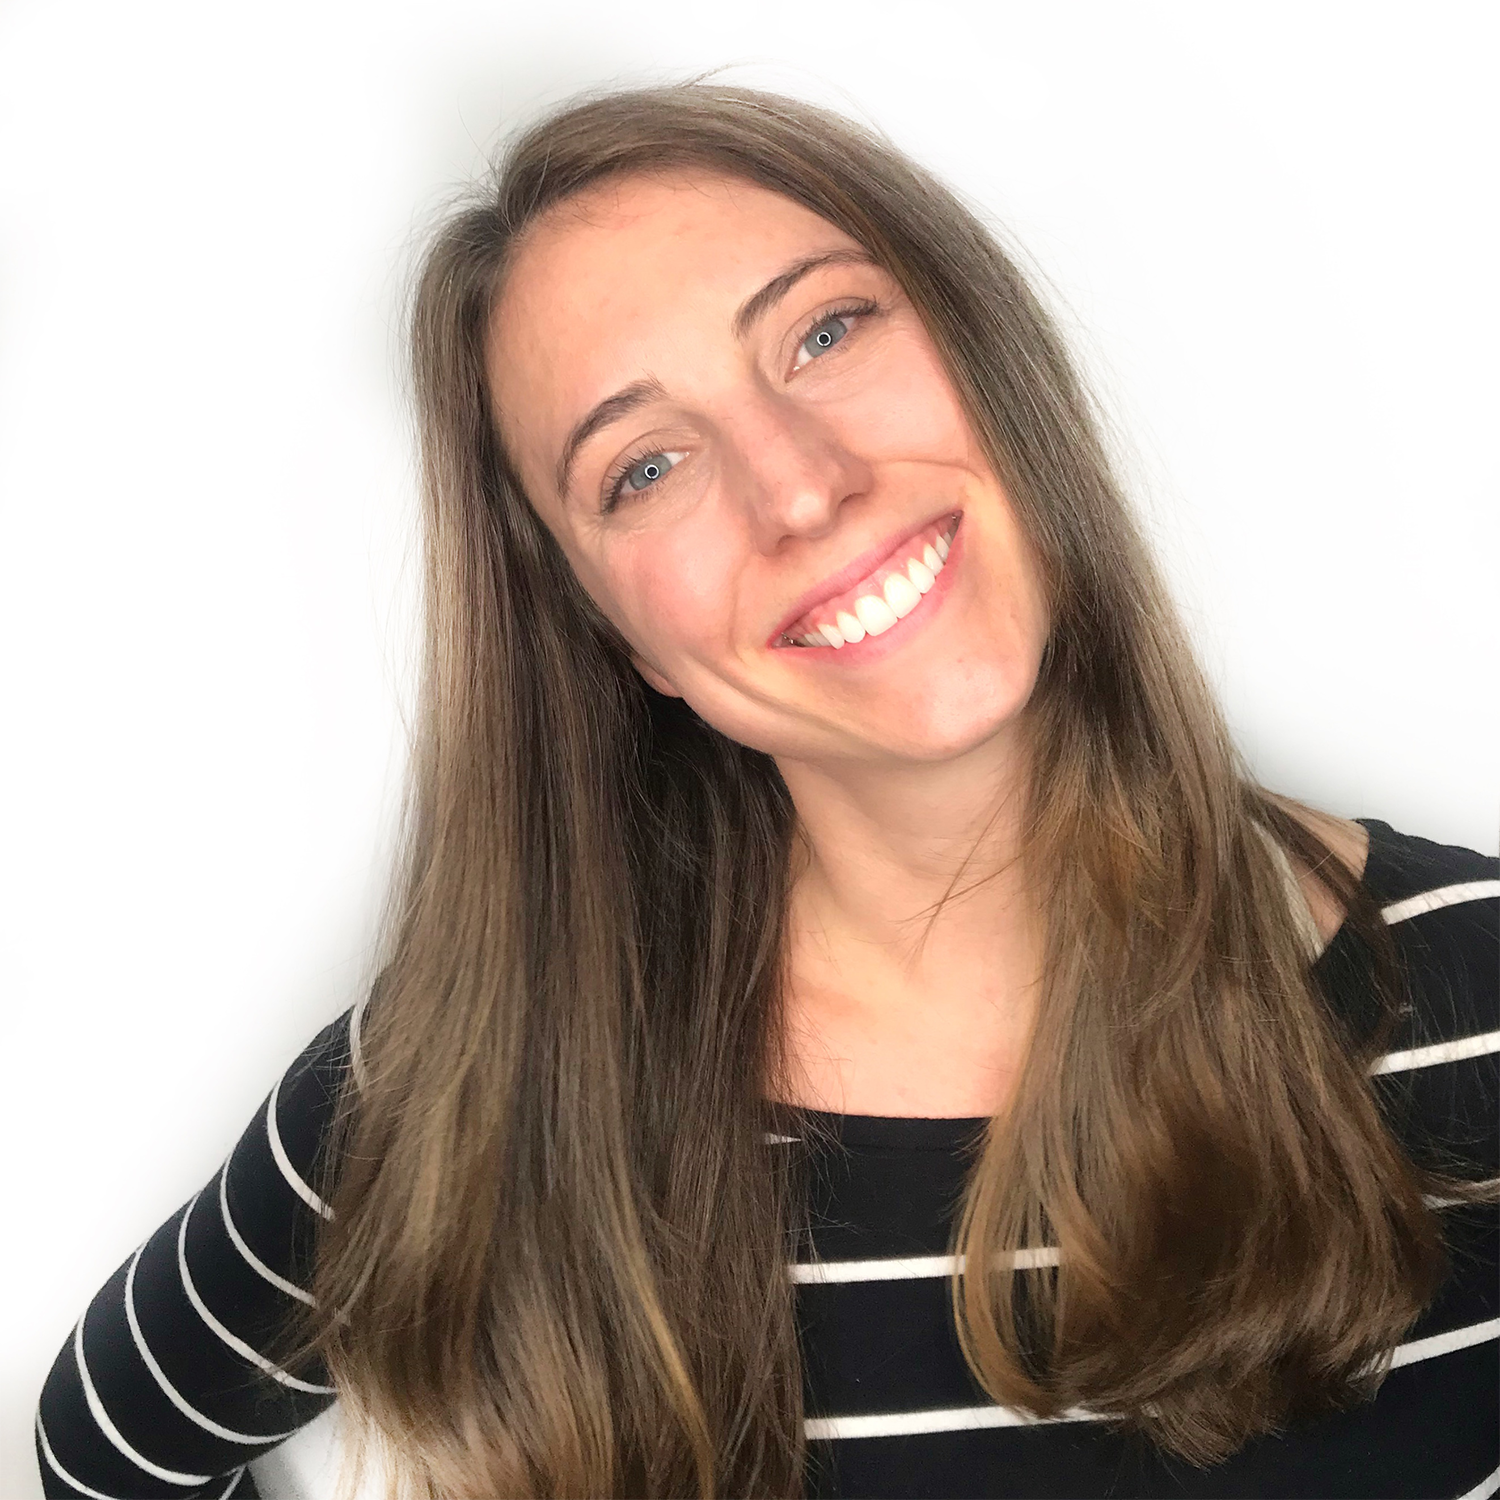
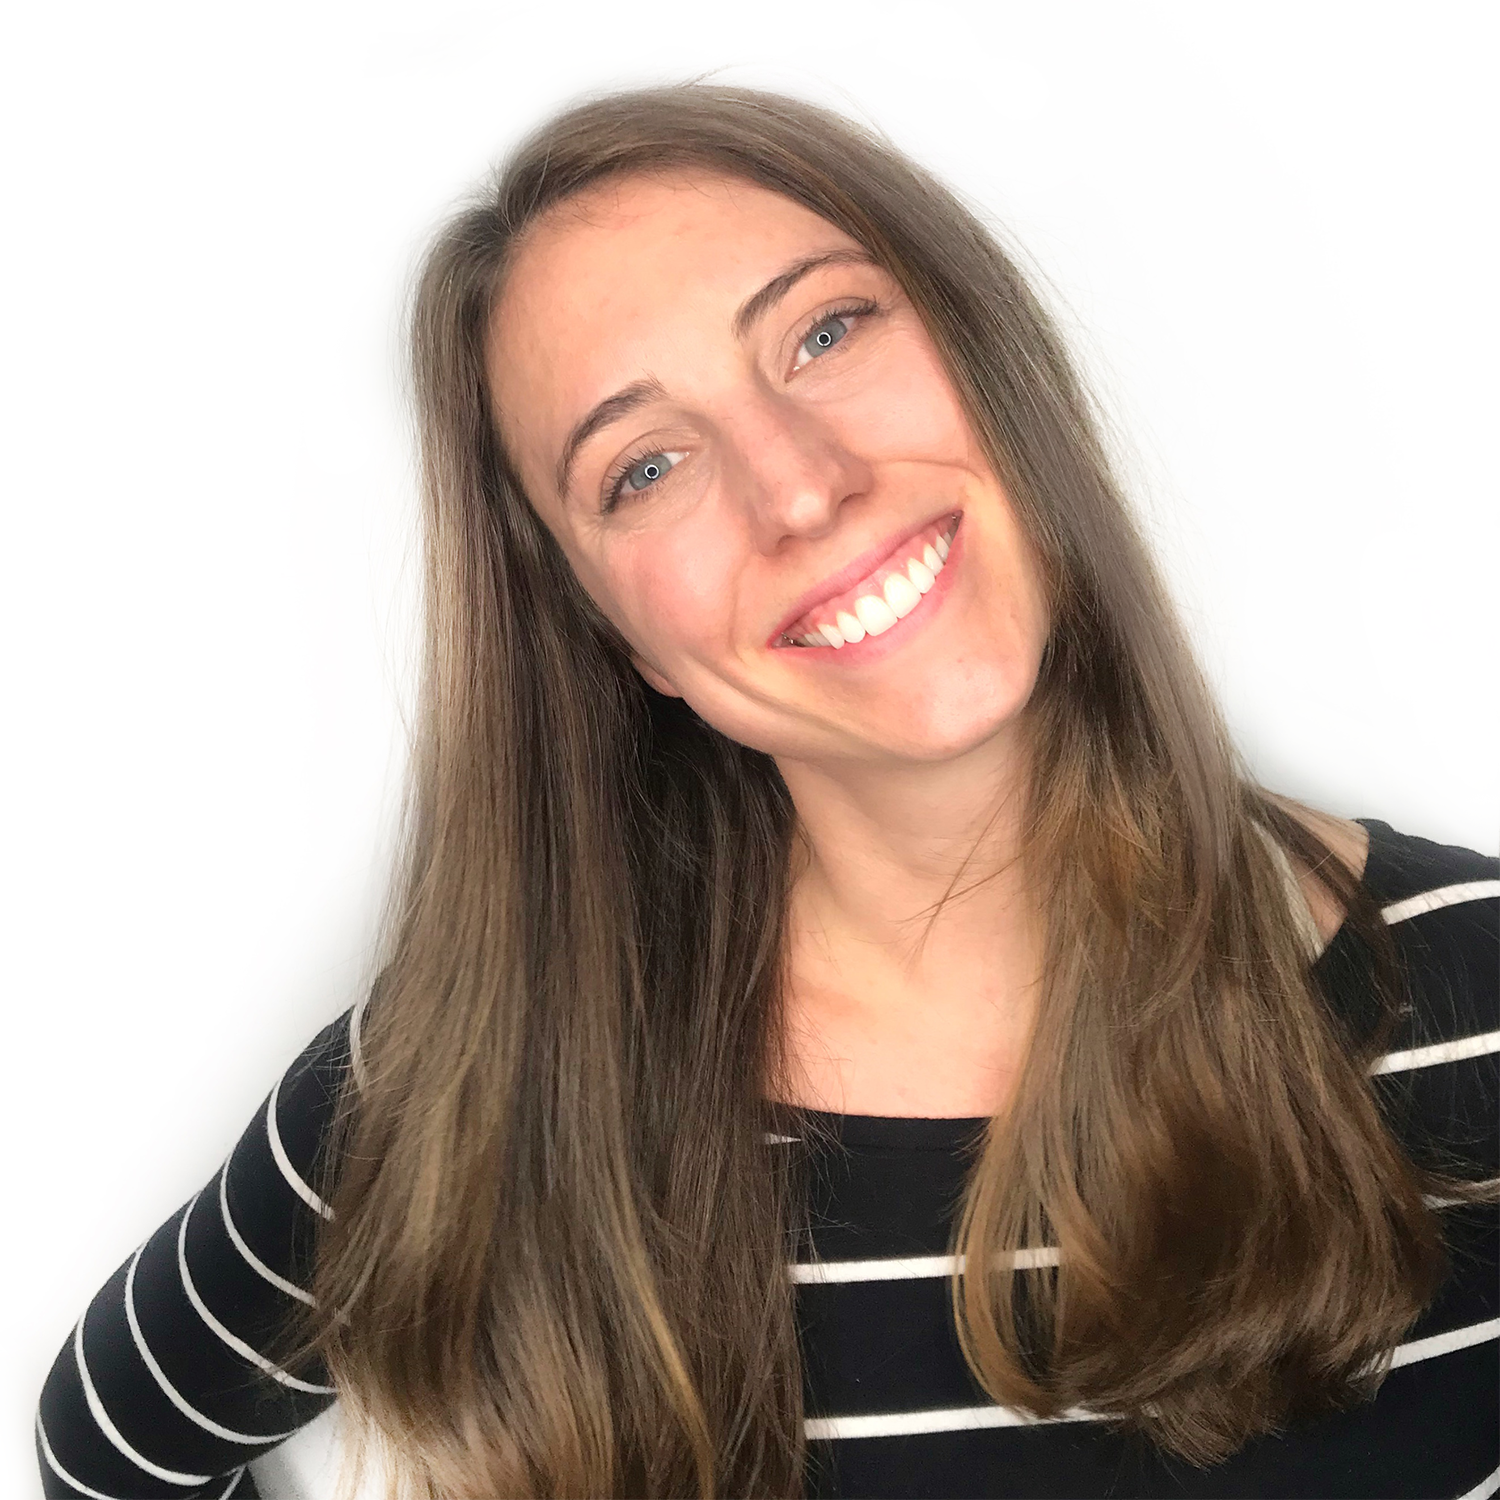
grid added to about page, landing page updates

Changed region(s): [[0.276, 0.0307, 0.3987, 0.184], [0.0, 0.92, 0.0613, 1.0], [0.9813, 0.552, 1.0, 0.5827]]

diff --git a/about.html b/about.html
@@ -52,33 +52,34 @@
 
 <!--- Story --------------->
 <body>
+    <section class="statement">
     <h2>Psychology</h2>
-    <h6 class="statement">My degree in psychology is something that I apply every single day. It helps me understand someone’s motivations and goals and how I can collaborate with them (or market something to them, best learn from them, or resolve conflicts—it’s endless!).</h6>
+    <h6>My degree in psychology is something that I apply every single day. It helps me understand someone’s motivations and goals and how I can collaborate with them (or market something to them, best learn from them, or resolve conflicts—it’s endless!).</h6>
 
-    <p class="statement">“Stop psychoanalyzing me!” my best friend use to accuse me of. It was an inside joke between us since I had an intuition of what was going through her head and loved observing human behavior. My innate understanding of psychology drives my interest in people and has played a meaningful role in my choice to become a UX Designer.</p>
+    <p>“Stop psychoanalyzing me!” my best friend use to accuse me of. It was an inside joke between us since I had an intuition of what was going through her head and loved observing human behavior. My innate understanding of psychology drives my interest in people and has played a meaningful role in my choice to become a UX Designer.</p>
 
-    <h2 class="statement">Non-profit & AmeriCorps</h2>
-    <h6 class="statement">Nothing has prepared me more to approach my work with empathy, curiosity, and a problem-solving mindset than working in the non-profit sector.</h6>
+    <h2>Non-profit & AmeriCorps</h2>
+    <h6>Nothing has prepared me more to approach my work with empathy, curiosity, and a problem-solving mindset than working in the non-profit sector.</h6>
 
-    <p class="statement">Committing to mission-driven work requires you to approach your job with an understanding that, due to institutional systems and individual experiences, you will never be able to fully step in someone else's shoes. But that doesn’t mean you can’t wear a similar pair! It necessitates continuous learning: I’ve done everything from a complete rebrand, website rebuild, RFPs, designing marketing materials, photography, video editing, copywriting, to cleaning goose poop off rowing docks. </p>
+    <p>Committing to mission-driven work requires you to approach your job with an understanding that, due to institutional systems and individual experiences, you will never be able to fully step in someone else's shoes. But that doesn’t mean you can’t wear a similar pair! It necessitates continuous learning: I’ve done everything from a complete rebrand, website rebuild, RFPs, designing marketing materials, photography, video editing, copywriting, to cleaning goose poop off rowing docks. </p>
 
-    <h2 class="statement">Marketing & Branding</h2>
-    <h6 class="statement">As a marketer, I want to know the business goals, the audience, the desired results, (and budget!) before putting any campaign together. The same mindset is needed within UX Design—innovation requires constraints and direction. </h6>
-    <p class="statement">I love marketing and branding because its a creative place to tie together psychology and strategy. Behind every design decision I make, my experience in marketing bids me to ask: will this speak to our audience? Will it sell the product? Does the branding appeal to the user? How might this creative be improved?</p>
+    <h2>Marketing & Branding</h2>
+    <h6>As a marketer, I want to know the business goals, the audience, the desired results, (and budget!) before putting any campaign together. The same mindset is needed within UX Design—innovation requires constraints and direction. </h6>
+    <p>I love marketing and branding because its a creative place to tie together psychology and strategy. Behind every design decision I make, my experience in marketing bids me to ask: will this speak to our audience? Will it sell the product? Does the branding appeal to the user? How might this creative be improved?</p>
 
-    <h2 class="statement">Soul searching & my friend Matti</h2>
-    <h6 class="statement">So how did I actually arrive at UX Design? A ton of soul searching, meditation, research, and talking to everyone and their mother. </h6>
-    <p class="statement">One fateful night at a Brooklyn house party, I met my friend Matti—a UX’er. As she described her day time job to me, I was overcome with the feeling you get when you know something is exactly right. Before I had finished my glass of wine, I knew my soul search was over. </p>
+    <h2>Soul searching & my friend Matti</h2>
+    <h6>So how did I actually arrive at UX Design? A ton of soul searching, meditation, research, and talking to everyone and their mother. </h6>
+    <p>One fateful night at a Brooklyn house party, I met my friend Matti—a UX’er. As she described her day time job to me, I was overcome with the feeling you get when you know something is exactly right. Before I had finished my glass of wine, I knew my soul search was over. </p>
 
-    <h2 class="statement">Today</h2>
-    <h6 class="statement">I get to spend my days happily using my multi-disciplinary skills and interests to craft enjoyable and accessible designs. </h6>
-    <p class="statement">Sound like we would work well together? I’d love to hear from you!</p>
+    <h2>Today</h2>
+    <h6>I get to spend my days happily using my multi-disciplinary skills and interests to craft enjoyable and accessible designs. </h6>
+    <p>Sound like we would work well together? I’d love to hear from you!</p>
+    </section>
 
-    <div class="contact-btn">
-    <a class="btn-outline" href="#email">Let's Connect</a>
-    <a class="btn-outline" href="">Download Resume</a>
+    <div class="btn">
+        <a href="#email" class="btn-outline btn1">Let's Connect</a>
+        <a href="" class="btn-outline btn2">Download Resume</a>
     </div>
-
 
     <h2>My work ethos</h2>
     <div class="work-ethos">

diff --git a/index.html b/index.html
@@ -96,7 +96,7 @@
     <div class="cs-grid cs-ruby">
         <div class="case-study-l">
             <h2>A Girl Named Ruby</h2>
-            <p>Across all of my professional experiences, UX design has been in everything - in designing promotional materials and content, in problem solving with people with complex issues through AmeriCorps, to understanding consumers through market research in my current role as a marketing manager.</p>
+            <p>Across all of my professional experiences, UX design has been in everything––in designing promotional materials and content, in problem solving with people through AmeriCorps, to understanding consumers through market research as a marketing manager.</p>
             <div class="btn">
                 <a class="btn-outline" href="about.html">Why I became a designer</a>
             </div>
@@ -113,18 +113,13 @@
     <section class="footer1">
         <div class="contact">
             <h2 class="orange-l">Onwards & Upwards</h2>
-            <p class="orange-l">Let’s make something awesome together <br>(coffee optional but improves experience)</p>
+            <p class="orange-l">Let’s make something awesome together (coffee optional but improves experience)</p>
         <div>
             <h5 class="orange-l">Get in touch</h5>
         </div>
         <div class="email">
             <a class="white" href="mailto:ruby@lyondesign.io">ruby@lyondesign.io</a>
         </div>
-            <div class="contact-icons white">
-                <a class="icon ion-logo-twitter" href="https://twitter.com/rubyanalyon" target="_blank"></a>
-                <a class="icon ion-logo-linkedin" href="https://www.linkedin.com/in/rubyana-lyon/" target="_blank"></a>
-                <a class="icon ion-logo-github" href="https://github.com/rubyana88" target="_blank"></a>
-            </div>
             <div class="return-top">
                 <a class="icon ion-md-arrow-up" href="#top"></a>
                 <a class="blue-l" href="#top">Back to top</a>
@@ -132,6 +127,13 @@
         </div>
     </section>
     <div class="footer2">
+        <div>
         <p class="orange-l">© 2019 | designed and developed by Ruby Lyon</p>
+        </div>
+        <div class="contact-icons">
+            <a class="icon ion-logo-twitter" href="https://twitter.com/rubyanalyon" target="_blank"></a>
+            <a class="icon ion-logo-linkedin" href="https://www.linkedin.com/in/rubyana-lyon/" target="_blank"></a>
+            <a class="icon ion-logo-github" href="https://github.com/rubyana88" target="_blank"></a>
+        </div>
     </div>
 </footer>

diff --git a/css/about.css b/css/about.css
@@ -28,12 +28,11 @@ h6{
 
 .statement{
     margin: auto;
-    width: 50%;
-    max-width: 60rem;
+    max-width: 80rem;
+    padding: 1rem 6rem;
 }
 
 .home-hero{
-    background-image: url('../images/dots.png');
     background-repeat: no-repeat;
     background-size: contain;
     background-position: center;
@@ -41,17 +40,13 @@ h6{
 }
 
 .about-picture{
-    max-width: 70rem;
     margin: auto;
-    width: 50%;
 }
 
 .landing-text h1{
-        max-width: 550px;
-        margin: 60px 0 0 0;
+        max-width: 55rem;
         margin: auto;
-        width: 50%;
-        padding-top: 6rem;
+        padding-top: 4rem;
         padding-bottom: 10rem;
 }
 
@@ -59,40 +54,26 @@ h6{
 
 body h2{
     text-align: center;
+    padding-bottom: 0rem;
+    padding-top: 0rem;
 }
 
 body h6{
-    padding-bottom: 2rem;
-    padding-top: 1rem;
+    margin-top: 1rem;
+    margin-bottom: 1rem;
 }
 
 body p{
     font-size: 1.6rem;
-    padding-bottom: 7rem;
+    padding-top: 0rem;
+    padding-bottom: 5rem;
 }
 
-.contact-btn{
-    display: grid;
-    grid-template-columns: 1fr 1fr;
-    grid-gap: 5rem;
+.btn{
+    display: block;
+    padding: 1rem 2rem;
+    text-align: center;
 }
-
-.btn-outline{
-  border: 3px solid var(--blue);
-  border-radius: 40px;
-  padding: 1rem;
-  font-size: 1.4rem;
-  color: var(--dark-blue);
-  text-transform: uppercase;
-  font-weight: bold;
-  letter-spacing: 3.55556px;
-  text-align: center;
-  display: block;
-  margin-left: auto;
-  margin-right: auto;
-  width: 45%;
-}
-
 
 
 /*<-------------------- work ethos ----------------------->*/
@@ -101,7 +82,7 @@ display: grid;
 grid-template-columns: 1fr 1fr;
 margin: auto;
 max-width: 50rem;
-grid-gap: 5rem;
+grid-gap: 4rem;
 }
 
 .work-ethos p{
@@ -112,6 +93,8 @@ grid-gap: 5rem;
     height: 23rem;
     font-size: 2.4rem;
     line-height: 4rem;
+    margin: 0rem;
+    padding-bottom: 6rem;
 }
 
 .quote-d{
@@ -127,3 +110,31 @@ grid-gap: 5rem;
     font-weight: 700;
     border: 3px solid var(--light-orange);
 }
+
+
+.btn{
+    display: grid;
+    grid-template-columns: 1fr 2fr 2fr 1fr;
+    grid-gap: 4rem;
+    padding: 0rem 3rem;
+}
+
+.btn1{
+    grid-column: 2/3;
+}
+.btn2{
+    grid-column: 3/4;
+}
+
+.btn-outline{
+    border: 3px solid var(--blue);
+    border-radius: 40px;
+    text-decoration: none;
+    font-size: 1.6rem;
+    text-transform: uppercase;
+    font-weight: bold;
+    letter-spacing: 3.55556px;
+    color: var(--dark-blue);
+    text-align: center;
+    padding: 1rem;
+    }

diff --git a/css/main.css b/css/main.css
@@ -59,10 +59,8 @@ h5{
 font-family: Poppins;
 font-style: normal;
 font-weight: 300;
-line-height: 24px;
-font-size: 18px;
+font-size: 1.8rem;
 text-transform: uppercase;
-font-weight: bold;
 letter-spacing: 3.55556px;
 }
 
@@ -133,8 +131,7 @@ footer{
 .footer1 p{
     line-height: 3.1rem;
     font-size: 2.2rem;
-    padding-bottom: 5rem;
-    padding-top: 2rem;
+    padding-bottom: 2rem;
     background: linear-gradient(to right,#F7BA8F,#CC7C92);
     -webkit-background-clip: text;
     -webkit-text-fill-color: transparent;
@@ -161,25 +158,56 @@ footer{
 }
 
 .return-top{
-    padding-top: 10rem;
+    padding-top: 6rem;
     padding-bottom: 10rem;
-    color: var(--blue);
     font-size: 1.8rem;
     display: grid;
     grid-column: 1 fr;
 }
 
+.return-top a{
+    color: var(--blue);
+    font-weight: bold;
+    font-size: 2rem;
+}
+
 .icon.ion-md-arrow-up{
     font-size: 3rem;
     padding: 1rem;
+    color: var(--blue);
+    font-weight: bold;
 }
 
 .footer2 {
-    display: flex;
-    justify-content: space-between;
-    padding: 2rem;
+    display: grid;
+    grid-template-columns: 1fr 1fr;
+    padding: 3rem;
 }
 
+.contact-icons{
+    text-align: right;
+    padding-top: 0;
+    color: var(--light-orange)
+}
+
+.contact-icons a{
+    color: var(--light-orange)
+}
+
+@media all and (max-width:700px){
+    .footer2{
+        grid-template-columns: 1fr;
+        text-align: center;
+    }
+
+    .footer2 p{
+        font-size: 1.4rem;
+    }
+
+    .contact-icons {
+        text-align: center;
+    }
+}
 /*<--------------------- Colors ------------------------>*/
 .orange-l {color: var(--light-orange);}
 .orange-d {color: var(--dark-orange);}

diff --git a/css/landing.css b/css/landing.css
@@ -66,19 +66,20 @@
     }
 }
 
-.caser-study-l h2 {
+.case-study-l h2 {
     margin: 0 0 1rem 0;
 }
-.caser-study-l h5 {
+.case-study-l h5 {
     margin: 0 0 1rem 0;
 }
-.caser-study-l p {
+.case-study-l p {
     margin: 0 0 1rem 0;
 }
 
 .case-study-l img{
     max-width: 20.5rem;
 }
+
 
 .btn{
     margin-top: 3rem;
